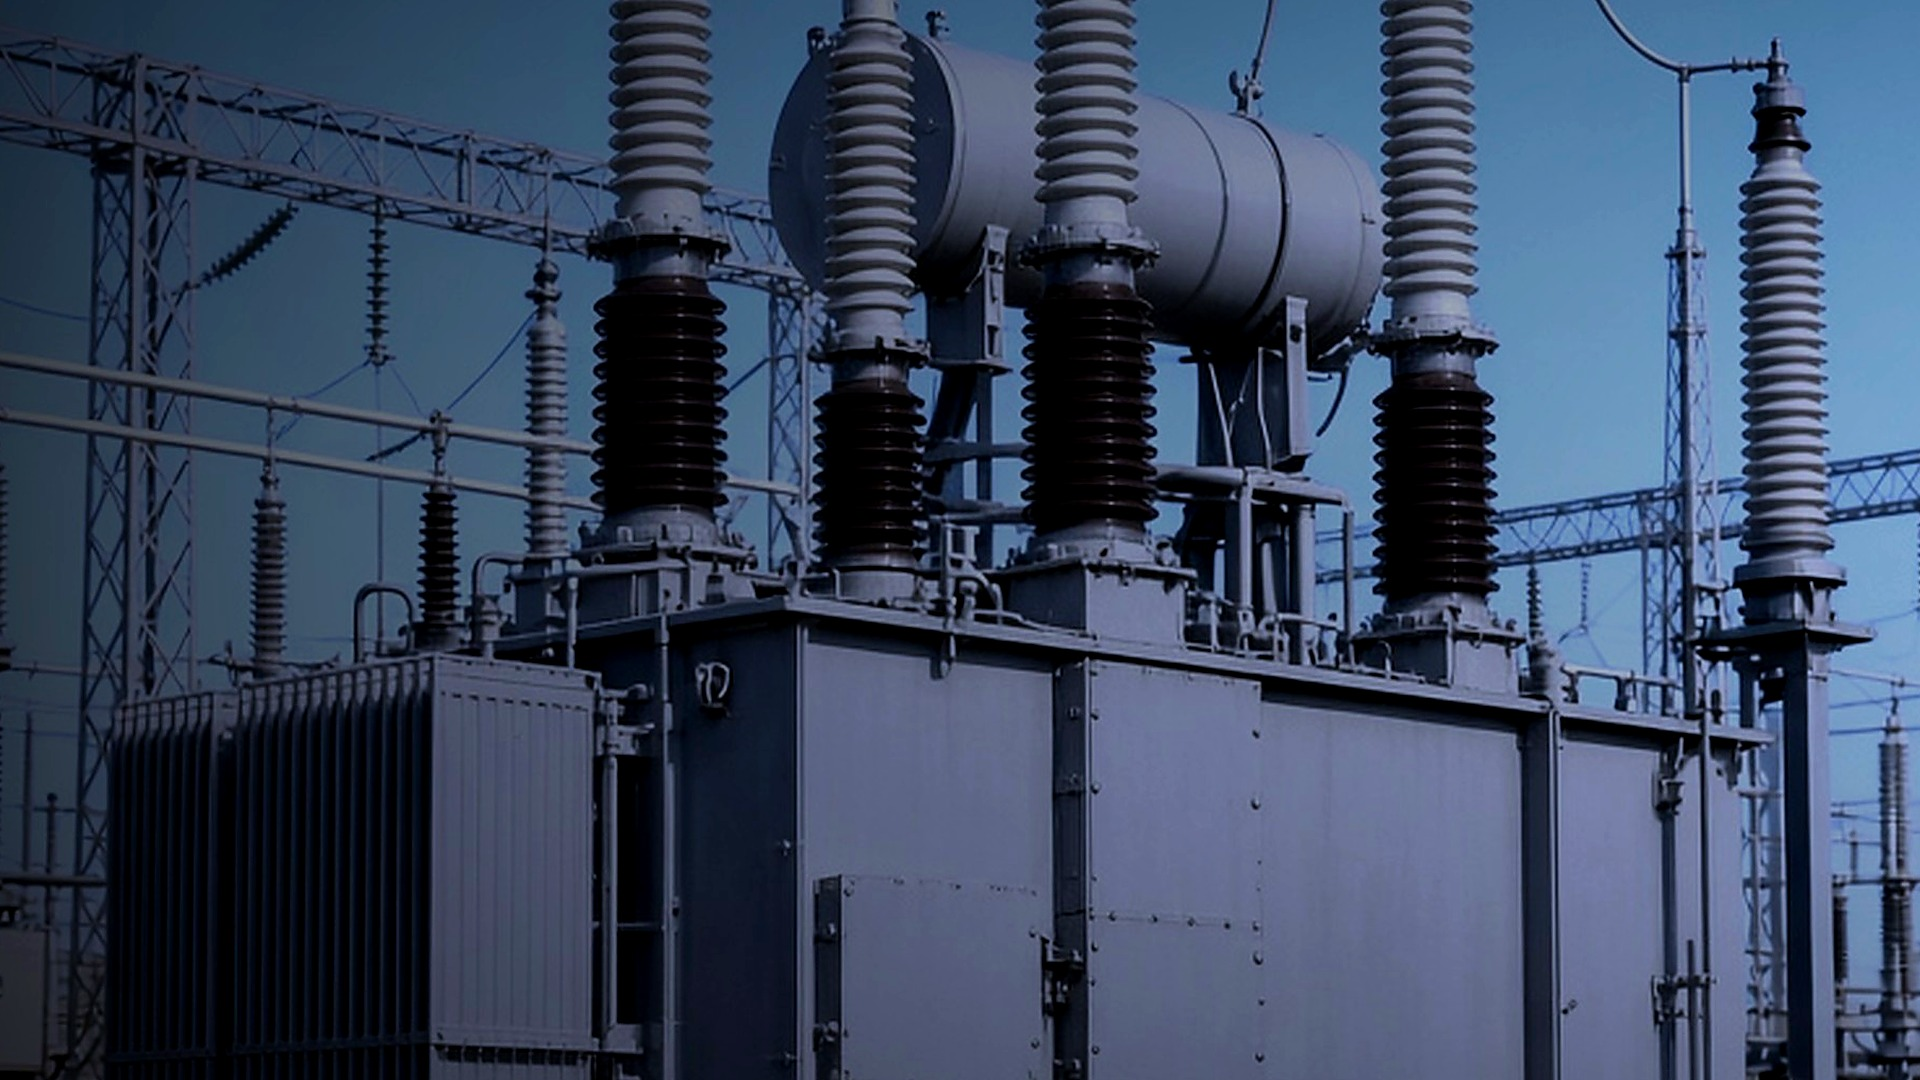
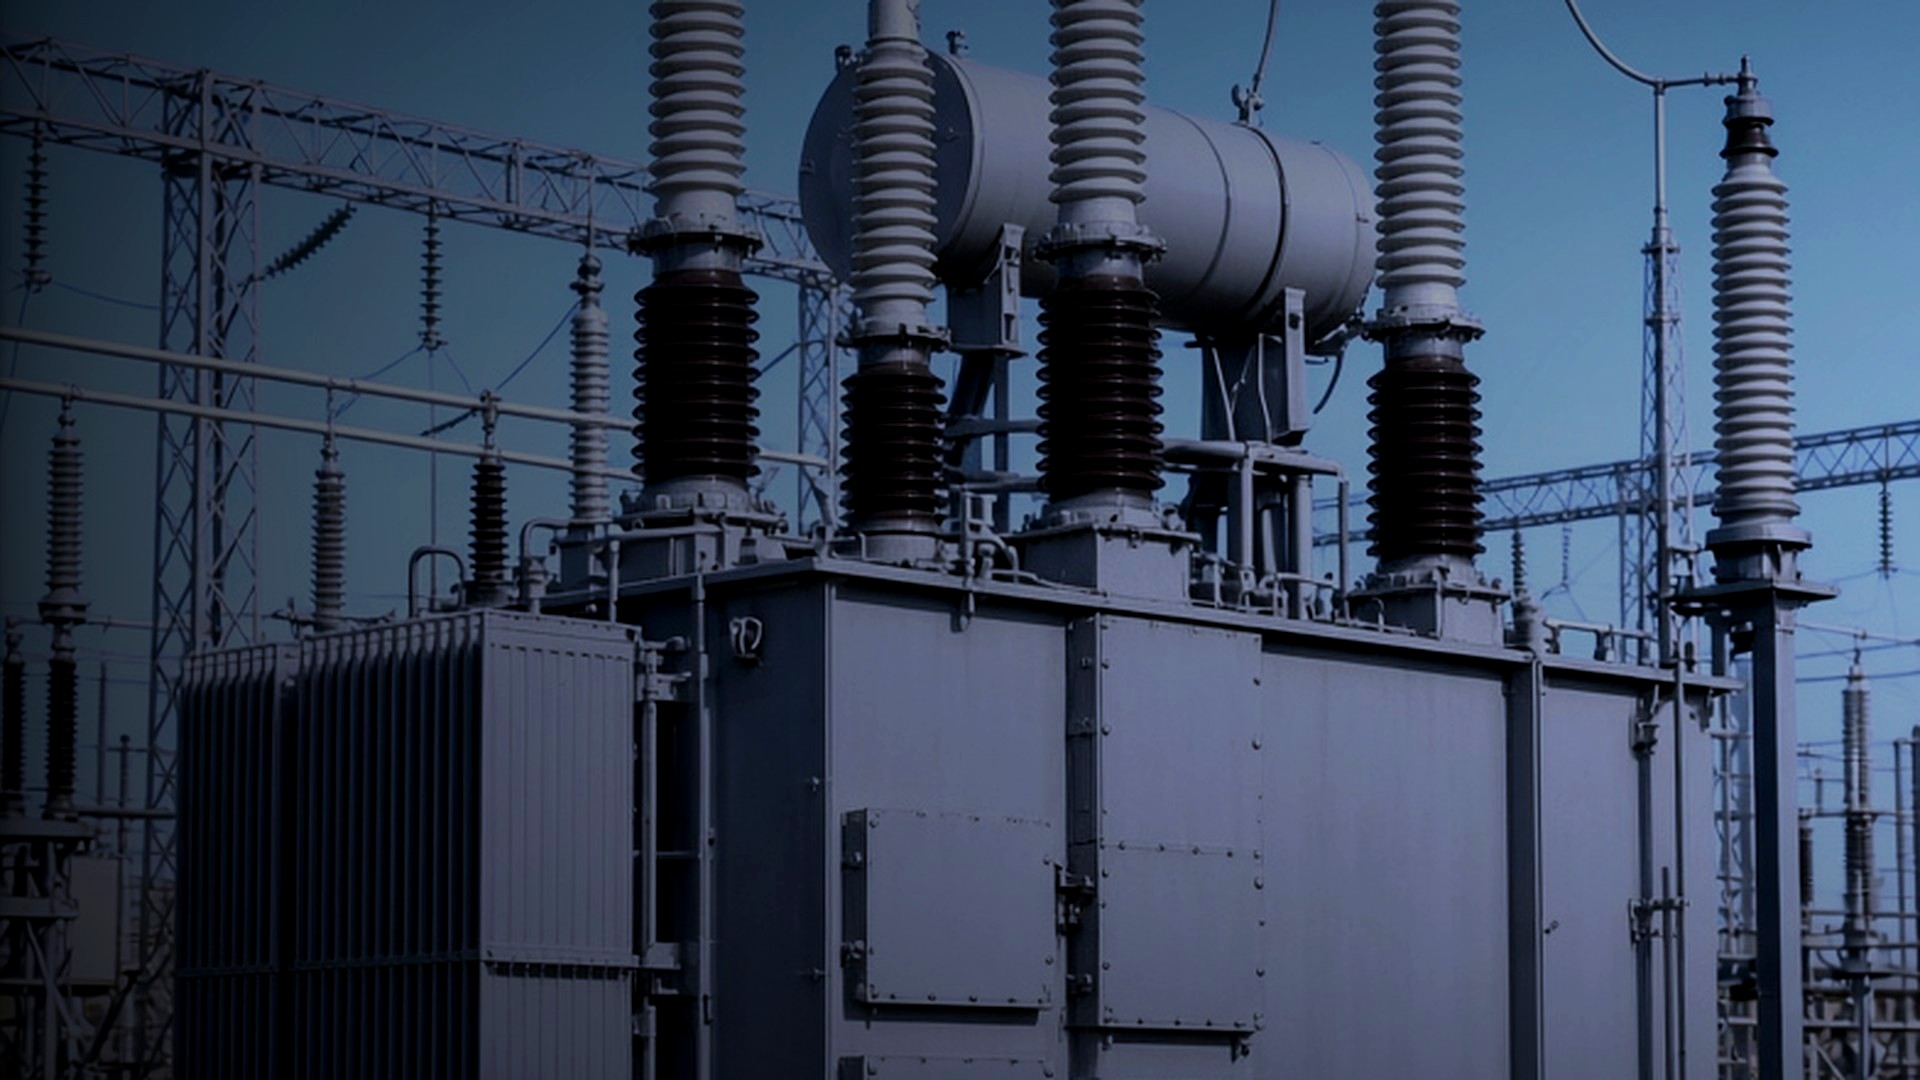
Hero v6 mock: copper-emphasized unit hybrid
Crop of the realistic power-transformer photo biased toward copper
windings; balanced left scrim for type. Full unit remains a picker option.

diff --git a/preview/index.html b/preview/index.html
@@ -14,7 +14,7 @@
 <link rel="preconnect" href="https://fonts.googleapis.com">
 <link rel="preconnect" href="https://fonts.gstatic.com" crossorigin>
 <link href="https://fonts.googleapis.com/css2?family=DM+Sans:ital,opsz,wght@0,9..40,400;0,9..40,500;0,9..40,600;0,9..40,700;1,9..40,400&family=Instrument+Sans:wght@500;600;700&display=swap" rel="stylesheet">
-<link rel="stylesheet" href="../assets/css/styles.css?v=v5">
+<link rel="stylesheet" href="../assets/css/styles.css?v=v6">
 </head>
 <body>
 <a class="skip-link" href="#main">Skip to content</a>
@@ -60,14 +60,14 @@
   <div class="preview-banner">
     <div class="container preview-banner-inner">
       <strong>Internal preview</strong>
-      <span>Copper-winding hero · balanced exposure · gradient restored for type.</span>
+      <span>Hybrid mock: unit photo, copper-emphasized crop, balanced gradient.</span>
       <a href="../">← Back to live site</a>
     </div>
   </div>
 
   <section class="hero hero-cinematic" data-hero>
     <div class="hero-bg" aria-hidden="true">
-      <img src="../assets/img/hero-opt-unit.jpg?v=v5" alt="" class="hero-bg-img" data-hero-img>
+      <img src="../assets/img/hero-copper-hybrid.jpg?v=v6" alt="" class="hero-bg-img" data-hero-img>
       <div class="hero-vignette"></div>
       <div class="hero-grain"></div>
     </div>
@@ -92,9 +92,10 @@
       <p class="hero-picker-label">Click a thumbnail to swap the large hero image</p>
       <p class="hero-active-label" data-hero-active-label hidden></p>
       <div class="hero-picker-thumbs">
+        <button type="button" class="hero-thumb is-active" data-hero-src="../assets/img/hero-copper-hybrid.jpg" title="Copper hybrid (recommended)"><img src="../assets/img/hero-copper-hybrid.jpg" alt="Option: copper hybrid"></button>
         <button type="button" class="hero-thumb" data-hero-src="../assets/img/hero-opt-detail.jpg" title="Unit detail"><img src="../assets/img/hero-opt-detail.jpg" alt="Option: unit detail"></button>
         <button type="button" class="hero-thumb" data-hero-src="../assets/img/hero-opt-substation.jpg" title="Substation twilight"><img src="../assets/img/hero-opt-substation.jpg" alt="Option: substation"></button>
-        <button type="button" class="hero-thumb is-active" data-hero-src="../assets/img/hero-opt-unit.jpg" title="Power transformer — copper windings"><img src="../assets/img/hero-opt-unit.jpg" alt="Option: unit"></button>
+        <button type="button" class="hero-thumb" data-hero-src="../assets/img/hero-opt-unit.jpg" title="Power transformer — copper windings"><img src="../assets/img/hero-opt-unit.jpg" alt="Option: unit"></button>
         <button type="button" class="hero-thumb" data-hero-src="../assets/img/hero-opt-yard.jpg" title="Yard industrial"><img src="../assets/img/hero-opt-yard.jpg" alt="Option: yard"></button>
         <button type="button" class="hero-thumb" data-hero-src="../assets/img/hero-opt-powerlines.jpg" title="Transmission lines"><img src="../assets/img/hero-opt-powerlines.jpg" alt="Option: lines"></button>
         <button type="button" class="hero-thumb" data-hero-src="../assets/img/hero-opt-specialty.jpg" title="Specialty gear"><img src="../assets/img/hero-opt-specialty.jpg" alt="Option: specialty"></button>

diff --git a/assets/css/styles.css b/assets/css/styles.css
@@ -132,13 +132,13 @@ ul { margin: 0; padding: 0; list-style: none; }
 .btn-outline-light:hover { background: rgb(255 255 255 / 0.1); }
 .hero { position: relative; color: var(--fg-on-dark); background: var(--bg-dark); overflow: hidden; }
 .hero-bg { position: absolute; inset: 0; }
-.hero-bg img { width: 100%; height: 100%; object-fit: cover; object-position: center 35%; opacity: 1; filter: saturate(1.08) contrast(1.04) brightness(1.02); }
+.hero-bg img { width: 100%; height: 100%; object-fit: cover; object-position: 70% 30%; opacity: 1; filter: saturate(1.08) contrast(1.05) brightness(1.03); }
 .hero-bg::after {
   content: ""; position: absolute; inset: 0;
-  /* Balanced: readable type on left, copper equipment clear on right */
+  /* Type left, copper clear right/upper */
   background:
-    linear-gradient(90deg, rgb(7 15 24 / 0.78) 0%, rgb(7 15 24 / 0.52) 28%, rgb(7 15 24 / 0.22) 52%, rgb(7 15 24 / 0.08) 72%, transparent 88%),
-    linear-gradient(0deg, rgb(7 15 24 / 0.45) 0%, transparent 42%, rgb(7 15 24 / 0.18) 100%);
+    linear-gradient(90deg, rgb(7 15 24 / 0.82) 0%, rgb(7 15 24 / 0.55) 26%, rgb(7 15 24 / 0.22) 50%, rgb(7 15 24 / 0.06) 70%, transparent 88%),
+    linear-gradient(0deg, rgb(7 15 24 / 0.42) 0%, transparent 40%, rgb(7 15 24 / 0.14) 100%);
 }
 .hero-inner { position: relative; padding-block: 4rem 5rem; }
 @media (min-width: 768px) {
@@ -538,14 +538,14 @@ body.modal-open { overflow: hidden; }
   pointer-events: none;
   background:
     linear-gradient(90deg,
-      rgb(7 15 24 / 0.62) 0%,
-      rgb(7 15 24 / 0.32) 30%,
-      rgb(7 15 24 / 0.1) 55%,
-      transparent 75%),
+      rgb(7 15 24 / 0.7) 0%,
+      rgb(7 15 24 / 0.38) 28%,
+      rgb(7 15 24 / 0.12) 55%,
+      transparent 78%),
     linear-gradient(0deg,
-      rgb(7 15 24 / 0.4) 0%,
-      transparent 42%,
-      rgb(7 15 24 / 0.16) 100%);
+      rgb(7 15 24 / 0.38) 0%,
+      transparent 40%,
+      rgb(7 15 24 / 0.14) 100%);
 }
 .hero-grain {
   position: absolute;
@@ -585,7 +585,7 @@ body.modal-open { overflow: hidden; }
 }
 .hero-cinematic .hero-bg-img {
   opacity: 1;
-  filter: saturate(1.1) contrast(1.05) brightness(1.04);
+  filter: saturate(1.1) contrast(1.06) brightness(1.03);
 }
 .hero-cinematic .hero-inner {
   position: relative;

diff --git a/scripts/static-styles.css b/scripts/static-styles.css
@@ -132,13 +132,13 @@ ul { margin: 0; padding: 0; list-style: none; }
 .btn-outline-light:hover { background: rgb(255 255 255 / 0.1); }
 .hero { position: relative; color: var(--fg-on-dark); background: var(--bg-dark); overflow: hidden; }
 .hero-bg { position: absolute; inset: 0; }
-.hero-bg img { width: 100%; height: 100%; object-fit: cover; object-position: center 35%; opacity: 1; filter: saturate(1.08) contrast(1.04) brightness(1.02); }
+.hero-bg img { width: 100%; height: 100%; object-fit: cover; object-position: 70% 30%; opacity: 1; filter: saturate(1.08) contrast(1.05) brightness(1.03); }
 .hero-bg::after {
   content: ""; position: absolute; inset: 0;
-  /* Balanced: readable type on left, copper equipment clear on right */
+  /* Type left, copper clear right/upper */
   background:
-    linear-gradient(90deg, rgb(7 15 24 / 0.78) 0%, rgb(7 15 24 / 0.52) 28%, rgb(7 15 24 / 0.22) 52%, rgb(7 15 24 / 0.08) 72%, transparent 88%),
-    linear-gradient(0deg, rgb(7 15 24 / 0.45) 0%, transparent 42%, rgb(7 15 24 / 0.18) 100%);
+    linear-gradient(90deg, rgb(7 15 24 / 0.82) 0%, rgb(7 15 24 / 0.55) 26%, rgb(7 15 24 / 0.22) 50%, rgb(7 15 24 / 0.06) 70%, transparent 88%),
+    linear-gradient(0deg, rgb(7 15 24 / 0.42) 0%, transparent 40%, rgb(7 15 24 / 0.14) 100%);
 }
 .hero-inner { position: relative; padding-block: 4rem 5rem; }
 @media (min-width: 768px) {
@@ -538,14 +538,14 @@ body.modal-open { overflow: hidden; }
   pointer-events: none;
   background:
     linear-gradient(90deg,
-      rgb(7 15 24 / 0.62) 0%,
-      rgb(7 15 24 / 0.32) 30%,
-      rgb(7 15 24 / 0.1) 55%,
-      transparent 75%),
+      rgb(7 15 24 / 0.7) 0%,
+      rgb(7 15 24 / 0.38) 28%,
+      rgb(7 15 24 / 0.12) 55%,
+      transparent 78%),
     linear-gradient(0deg,
-      rgb(7 15 24 / 0.4) 0%,
-      transparent 42%,
-      rgb(7 15 24 / 0.16) 100%);
+      rgb(7 15 24 / 0.38) 0%,
+      transparent 40%,
+      rgb(7 15 24 / 0.14) 100%);
 }
 .hero-grain {
   position: absolute;
@@ -585,7 +585,7 @@ body.modal-open { overflow: hidden; }
 }
 .hero-cinematic .hero-bg-img {
   opacity: 1;
-  filter: saturate(1.1) contrast(1.05) brightness(1.04);
+  filter: saturate(1.1) contrast(1.06) brightness(1.03);
 }
 .hero-cinematic .hero-inner {
   position: relative;

diff --git a/index.html b/index.html
@@ -13,7 +13,7 @@
 <link rel="preconnect" href="https://fonts.googleapis.com">
 <link rel="preconnect" href="https://fonts.gstatic.com" crossorigin>
 <link href="https://fonts.googleapis.com/css2?family=DM+Sans:ital,opsz,wght@0,9..40,400;0,9..40,500;0,9..40,600;0,9..40,700;1,9..40,400&family=Instrument+Sans:wght@500;600;700&display=swap" rel="stylesheet">
-<link rel="stylesheet" href="assets/css/styles.css?v=v5">
+<link rel="stylesheet" href="assets/css/styles.css?v=v6">
 </head>
 <body>
 <a class="skip-link" href="#main">Skip to content</a>
@@ -57,7 +57,7 @@
 <main id="main">
   <section class="hero">
     <div class="hero-bg">
-      <img src="assets/img/hero-opt-unit.jpg?v=v5" alt="">
+      <img src="assets/img/hero-copper-hybrid.jpg?v=v6" alt="">
     </div>
     <div class="container hero-inner">
       <p class="hero-badge">Transformer Procurement Services</p>
